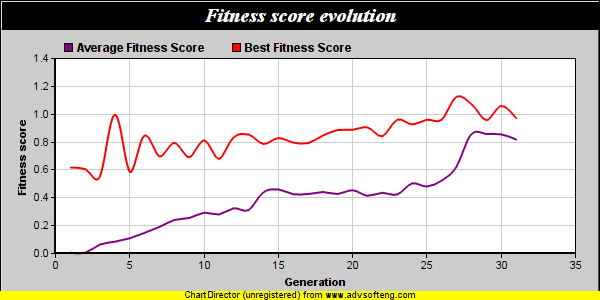
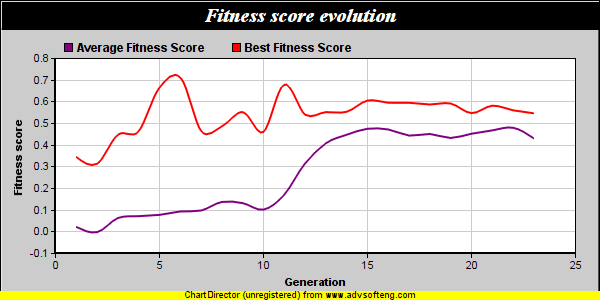
Graph de répartition de duré des phases

diff --git a/2Wheels1arm_API_sample_application/2Wheels1arm_API_sample_application/ChartDebugger.cpp b/2Wheels1arm_API_sample_application/2Wheels1arm_API_sample_application/ChartDebugger.cpp
@@ -3,6 +3,7 @@
 
 ChartDebugger::ChartDebugger(void)
 {
+	_phaseDurationRepartition.resize(500);
 }
 
 // --------------------------------------------------------------
@@ -24,7 +25,15 @@ void ChartDebugger::AddGenerationData(double averageFitness, double bestFitness)
 // --------------------------------------------------------------
 void ChartDebugger::Render()
 {
-    // Create a XYChart object of size 600 x 300 pixels, with a light grey (cccccc)
+	this->RenderFitnessGraph();
+	this->RenderPhaseDurationRepartition();
+}
+
+// --------------------------------------------------------------
+// --------------------------------------------------------------
+void ChartDebugger::RenderFitnessGraph()
+{
+	// Create a XYChart object of size 600 x 300 pixels, with a light grey (cccccc)
     // background, black border, and 1 pixel 3D border effect.
     XYChart *c = new XYChart(600, 300, 0xcccccc, 0x000000, 1);
 
@@ -56,6 +65,70 @@ void ChartDebugger::Render()
 
     // Output the chart
     c->makeChart("output/fitnessEvolution.png");
+
+    //free up resources
+    delete c;
+}
+
+
+// --------------------------------------------------------------
+// --------------------------------------------------------------
+void ChartDebugger::CleanPhaseDuration()
+{
+	this->_phaseDurationRepartition.resize(500);
+	for (double & value : this->_phaseDurationRepartition)
+		value = 0;
+}
+
+// --------------------------------------------------------------
+// --------------------------------------------------------------
+void ChartDebugger::AddPhaseDurationValue(unsigned int phaseDuration)
+{
+	this->_phaseDurationRepartition[phaseDuration] += 1;
+}
+
+// --------------------------------------------------------------
+// --------------------------------------------------------------
+void ChartDebugger::RenderPhaseDurationRepartition()
+{
+	// Create a XYChart object of size 600 x 300 pixels, with a light grey (cccccc)
+    // background, black border, and 1 pixel 3D border effect.
+    XYChart *c = new XYChart(600, 300, 0xcccccc, 0x000000, 1);
+	std::vector<double> yValue;
+	std::vector<double> xValue;
+	for (unsigned int i = 0; i < 500; ++i)
+	{
+		double value = this->_phaseDurationRepartition[i];
+		if (value != 0.0)
+		{
+			yValue.push_back(value);
+			xValue.push_back(i);
+		}
+	}
+
+    // Set the plotarea at (55, 58) and of size 520 x 195 pixels, with white
+    // background. Turn on both horizontal and vertical grid lines with light grey
+    // color (cccccc)
+    c->setPlotArea(55, 58, 520, 195, 0xffffff, -1, -1, 0xcccccc, 0xcccccc);
+    c->addLegend(55, 32, false, "arialbd.ttf", 9)->setBackground(Chart::Transparent);
+    c->addTitle("Phase duration repartition", "timesbi.ttf", 15, 0xffffff)->setBackground(0x000000, -1, 1);
+    c->yAxis()->setTitle("Occurence");
+    c->xAxis()->setTitle("Phase duration");
+
+    // Set the axes width to 2 pixels
+    c->xAxis()->setWidth(2);
+    c->yAxis()->setWidth(2);
+
+	{
+		// Add an orange (0xff9933) scatter chart layer, using 13 pixel diamonds as
+		// symbols
+		c->addScatterLayer(DoubleArray(xValue.data(), xValue.size()), 
+			DoubleArray(yValue.data(), yValue.size()),
+			"Repartition", Chart::DiamondSymbol, 13, 0xff9933);
+	}
+
+    // Output the chart
+    c->makeChart("output/phaseDuration.png");
 
     //free up resources
     delete c;

diff --git a/2Wheels1arm_API_sample_application/2Wheels1arm_API_sample_application/RobotManager.cpp b/2Wheels1arm_API_sample_application/2Wheels1arm_API_sample_application/RobotManager.cpp
@@ -59,15 +59,18 @@ void RobotManager::runSequence()
 	{
 		MovementGeneticAlgorithm::PopulationType & population = geneticAlgorithm.ChromosomePopulation();
 		double averageFitness = 0;
+		debugger.CleanPhaseDuration();
 
 		for (MovementChromosome & chromosome : population)
 		{
+			debugger.AddPhaseDurationValue(chromosome.GetValue().PhaseDuration());
+
 			this->_robot->Init();
 			Sleep(500);
 			ApiBlli::Position beginPos = *this->_robot->GetPosition();
 			chromosome.Fitness(0.0f);
 			MovementSequence const & movementSequence = chromosome.GetValue();
-
+			
 			for (unsigned int i = 0; i < 10; ++i)
 			{
 				MovementSequence::ArmMove const & move = (i%2) ? movementSequence.SecondPhase() : movementSequence.FirstPhase();

diff --git a/2Wheels1arm_API_sample_application/2Wheels1arm_API_sample_application/ChartDebugger.h b/2Wheels1arm_API_sample_application/2Wheels1arm_API_sample_application/ChartDebugger.h
@@ -11,10 +11,17 @@ public:
 	~ChartDebugger(void);
 
 	void AddGenerationData(double averageFitness, double bestFitness);
+	void CleanPhaseDuration();
+	void AddPhaseDurationValue(unsigned int phaseDuration);
 	void Render();
 private:
+	void RenderFitnessGraph();
+	void RenderPhaseDurationRepartition();
+
 	std::vector<double> _generationData;
 	std::vector<double> _averageFitnessScore;
 	std::vector<double> _bestRobotFitnessScore;
+
+	std::vector<double> _phaseDurationRepartition;
 };
 
